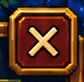
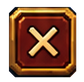
R133: celular e som — volume com controle deslizante na partida (bot, Ranked, Casual; PC e celular), igual XEQUE/MARCHA; contra o bot no celular, derrota/empate abrem o painel com ENFRENTAR DE NOVO / ANALISAR / INÍCIO (como no PC), ocupando a largura da tela; painel AÇÕES com a placa e o X recortado
Claude-Session: https://claude.ai/code/session_016vKvXoMfUjcNC2AWvYdkWV

diff --git a/tools/art/acoes_recorte_r133.py b/tools/art/acoes_recorte_r133.py
@@ -1,0 +1,26 @@
+#!/usr/bin/env python3
+"""R133 · painel AÇÕES (celular): a placa "AÇÕES" e o botão X tinham sido recortados como RETÂNGULOS da arte de
+referência (vinham com folhagem e cantos escuros em volta → caixas pretas feias). Aqui ganham transparência: fica
+só a placa (octógono + pedras laterais + enfeite de cima) e o botão (quadrado de cantos cortados), borda suave.
+Lê a versão do git (sem transparência) e grava RGBA em ranked/art/. Uso: python3 tools/art/acoes_recorte_r133.py"""
+import os, io, subprocess
+from PIL import Image, ImageDraw
+ROOT = os.path.join(os.path.dirname(os.path.abspath(__file__)), "..", "..")
+SS = 4
+SHAPES = {
+    "mob_hud_plaque": [
+        [(30, 9), (239, 9), (246, 16), (246, 66), (239, 73), (30, 73), (22, 65), (22, 17)],   # placa
+        [(0, 43), (12, 30), (25, 43), (12, 56)], [(247, 43), (259, 31), (271, 43), (259, 55)],   # pedras
+        [(116, 0), (150, 0), (143, 12), (133, 16), (123, 12)],   # enfeite de cima
+    ],
+    "mob_hud_close": [[(15, 7), (70, 7), (76, 13), (76, 71), (70, 77), (15, 77), (9, 71), (9, 13)]],
+}
+for name, polys in SHAPES.items():
+    raw = subprocess.check_output(["git", "-C", ROOT, "show", f"8b22b06:ranked/art/{name}.png"])
+    im = Image.open(io.BytesIO(raw)).convert("RGBA")
+    m = Image.new("L", (im.width * SS, im.height * SS), 0)
+    d = ImageDraw.Draw(m)
+    for poly in polys: d.polygon([(x * SS, y * SS) for x, y in poly], fill=255)
+    im.putalpha(m.resize(im.size, Image.LANCZOS))
+    im.save(os.path.join(ROOT, f"ranked/art/{name}.png"), optimize=True)
+    print(name, im.size)
